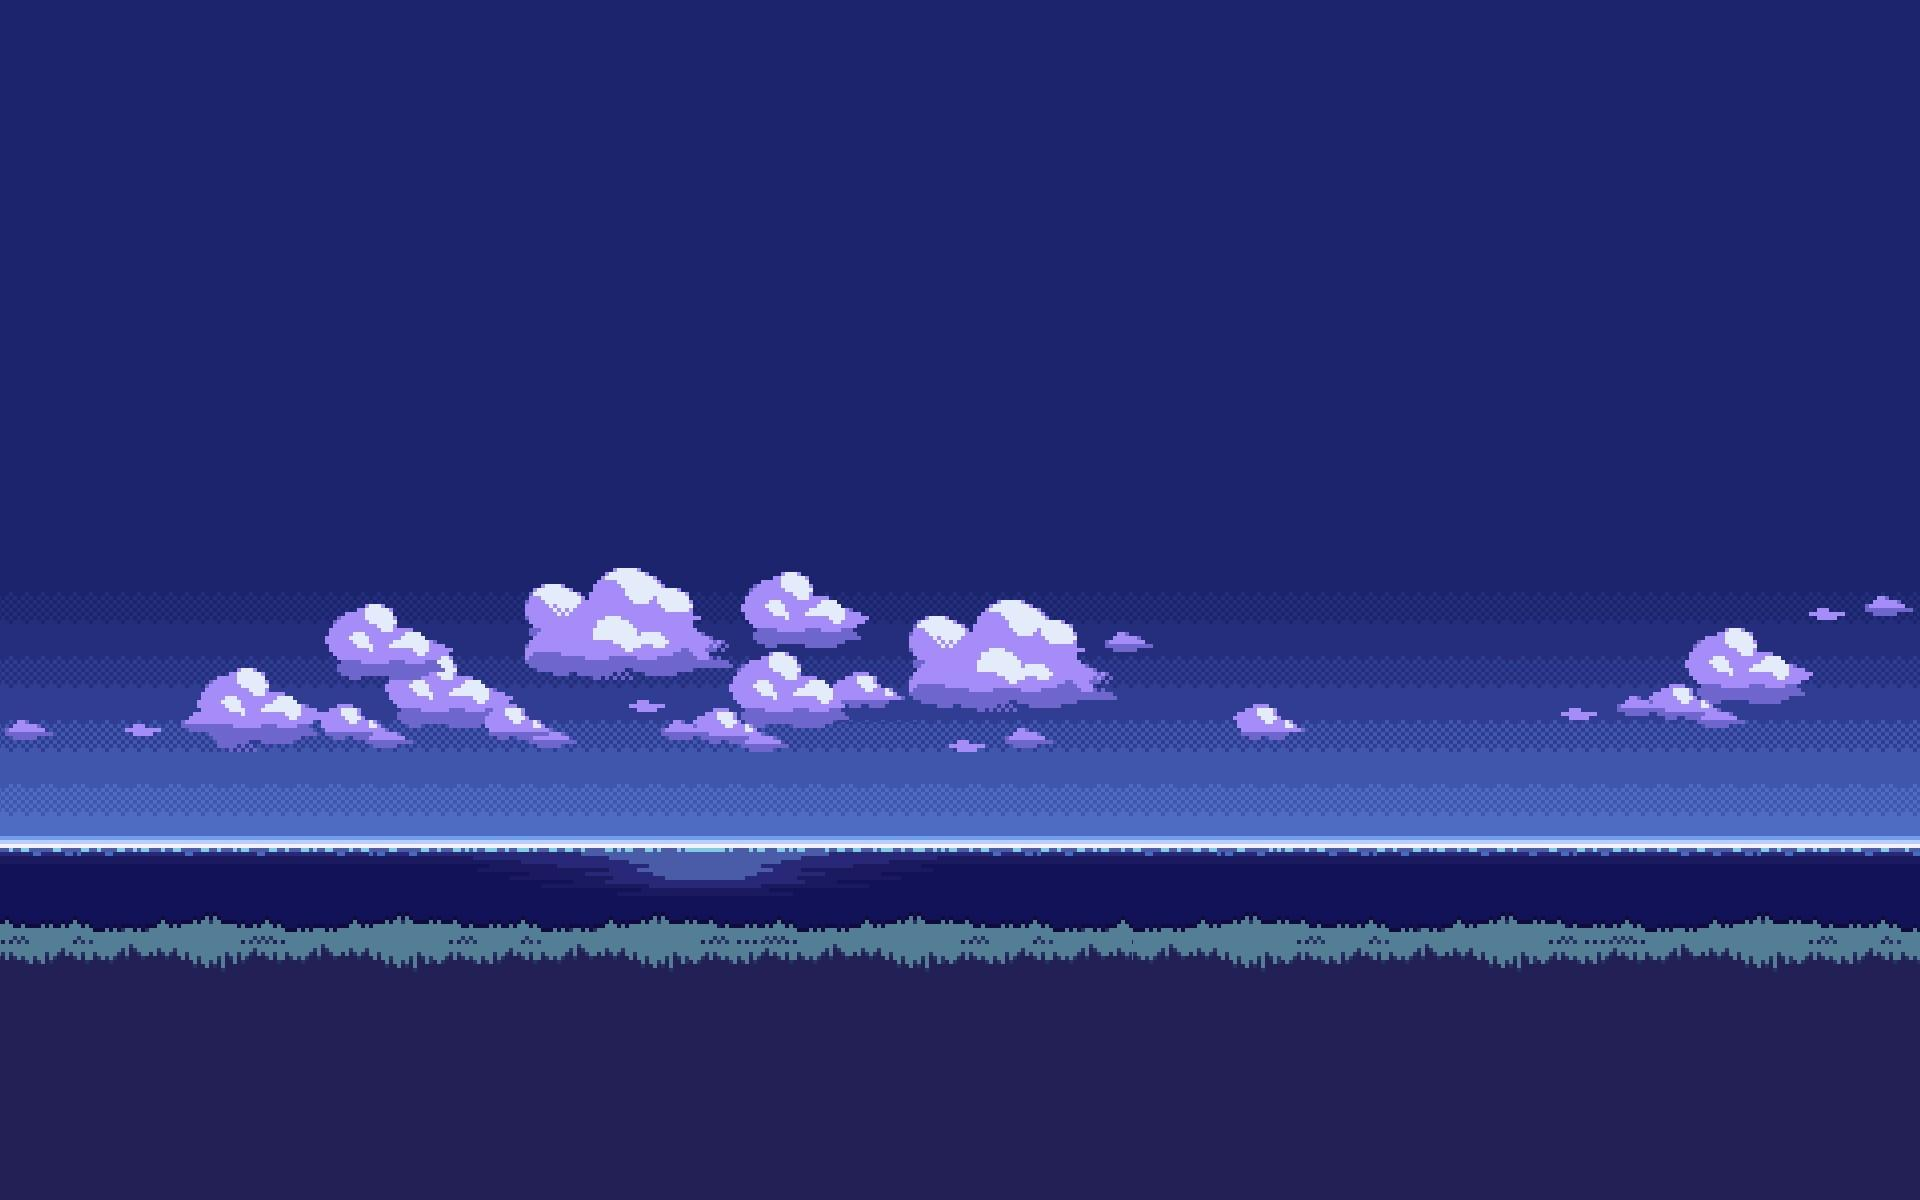
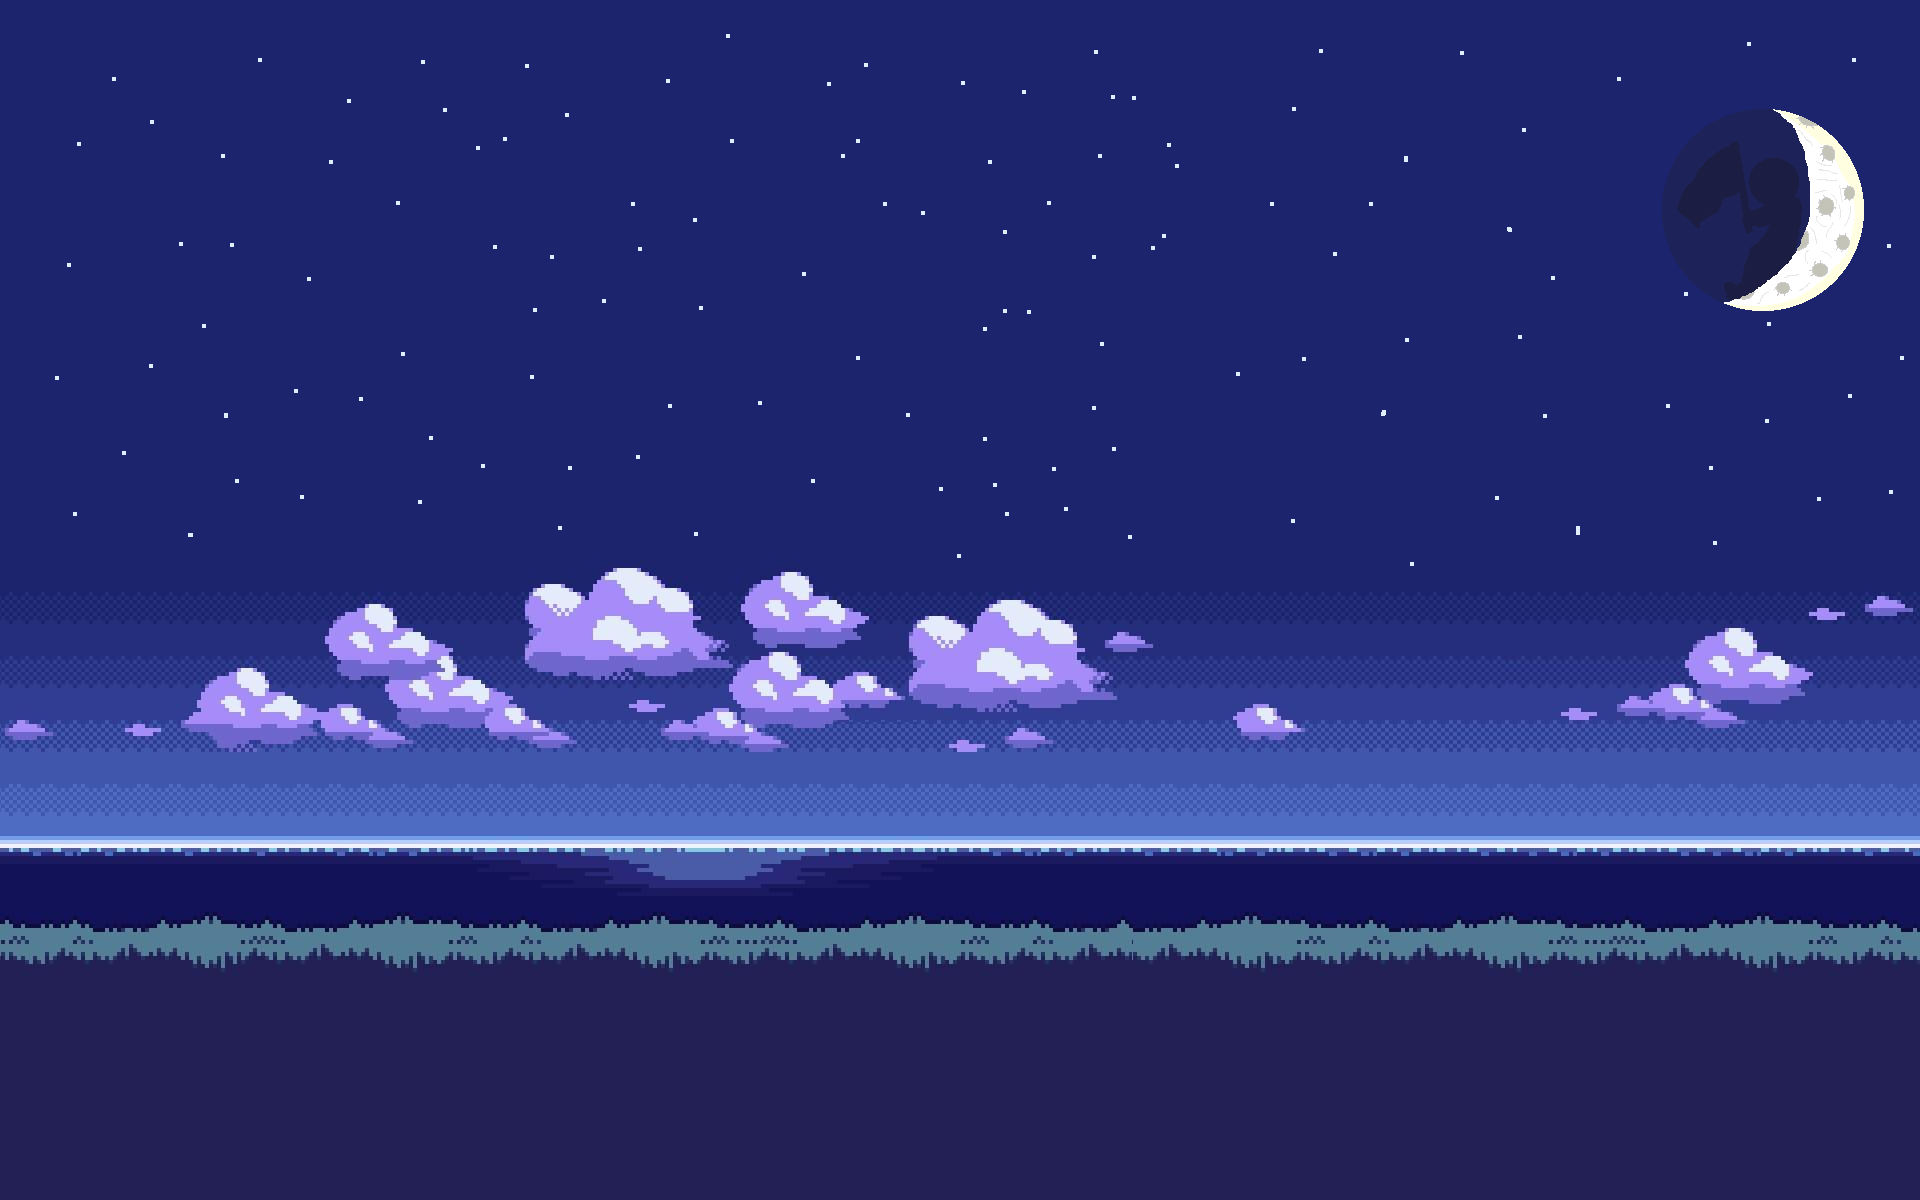
sound fount update!!!

Changed region(s): [[0.875, 0.0925, 0.9688, 0.2775]]

diff --git a/.vscode/teste.html b/.vscode/teste.html
@@ -1,0 +1,15 @@
+<!DOCTYPE html>
+<html lang="pt-br">
+<head>
+    <meta charset="UTF-8">
+    <meta name="viewport" content="width=device-width, initial-scale=1.0">
+     <link rel="stylesheet" href="teste.css">
+    <title>Testes</title>
+</head>
+<body>
+    <button id="btnSom">Som</button>
+
+<audio id="somClique" src="vitoria.mp3"></audio>
+        <script src="teste.js"></script>
+</body>
+</html>

diff --git a/paginas/perfil/config.html b/paginas/perfil/config.html
@@ -29,6 +29,10 @@
             </div>
             <nav>
                 <ul class="nav-list">
+                    
+                    <li id="nav-item">
+                        <a href="../../index.html">Início</a>
+                    </li>
                     <li id="nav-item">
                         <a href="../criar/criar.html">Criar</a>
                     </li>
@@ -40,9 +44,6 @@
                     </li>
                     <li id="nav-item2">
                         <a href="perfil.html"><i class="fas fa-user"></i></a>
-                    </li>
-                    <li id="nav-item2">
-                        <a href="config.html"><i class="fas fa-gear"></i></a>
                     </li>
                 </ul>
             </nav>

diff --git a/.vscode/teste.js b/.vscode/teste.js
@@ -1,0 +1,6 @@
+const btnSom = document.getElementById("btnSom");
+const somClique = document.getElementById("somClique");
+
+btnSom.addEventListener("click", function () {
+    somClique.play();
+});

diff --git a/JS/inventario.js b/JS/inventario.js
@@ -1,11 +1,15 @@
 const inPesquisaClasse = document.getElementById("inPesquisaClasse");
 const inPesquisaVida = document.getElementById("inPesquisaVida");
 const inTipoFiltroVida = document.getElementById("inTipoFiltroVida")
+
 const msgVazio = document.getElementById("msgVazio");
+
 const listaPersonagens = document.getElementById("listaPersonagens");
 const listaObjetos = document.getElementById("listaObjetos");
 const listaAreas = document.getElementById("listaAreas");
+
 const btnPesquisar = document.getElementById("btnPesquisar");
+const somSucesso = document.getElementById("somSucesso");
 
 function renderizarLista() {
     let vetPersonas = JSON.parse(localStorage.getItem("personagens")) || [];
@@ -53,6 +57,7 @@ listaPersonagens.addEventListener("click", function (event) {
         const idDeletar = Number(event.target.getAttribute("idPersona"));
 
         if (confirm("Tem certeza que deseja apagar este personagem?")) {
+    somSucesso.play();
             let vetPersonas = JSON.parse(localStorage.getItem("personagens")) || [];
             let novoVetPersonas = [];
 
@@ -77,6 +82,7 @@ btnPesquisar.addEventListener("click", function () {
     let vetPersonas = JSON.parse(localStorage.getItem("personagens")) || [];
     let novoVetPersonas = [];
 
+    somSucesso.play();
     for (var i = 0; i < vetPersonas.length; i++) {
         let personaAtual = vetPersonas[i];
         let condClasse = false;

diff --git a/paginas/perfil/inventario.html b/paginas/perfil/inventario.html
@@ -51,9 +51,9 @@
     </header>
     <main id="containerElementos" class="container py-4">
         <h1 class="h4 text-center mb-4">Inventário</h1>
-<input type="number" id="inPesquisaVida" class="form-control mb-3" placeholder="Digite o valor da vida">
+<input type="number" id="inPesquisaVida" placeholder="Digite o valor da vida">
 
-    <select id="inTipoFiltroVida" class="form-select mb-3">
+    <select id="inTipoFiltroVida">
        <option value="maior" selected>Vida Maior ou igual que:</option>
         <option value="menor">Vida menor ou igual que:</option>
     </select>
@@ -86,7 +86,7 @@
             <option value="alquimista">Alquimista</option>
         </select>
         <button id="btnPesquisar" class="btn btn-primary">Pesquisar</button>
-
+        <audio id="somSucesso" src="../../JS/vitoria.mp3"></audio>
         <div id="msgVazio" class="text-center mt-5">
             <p class="fs-4">Vazio, igual seu coração :P</p>
             <p class="text-muted">Crie seu primeiro elemento para vê-lo aparecer aqui.</p>

diff --git a/index.html b/index.html
@@ -24,8 +24,10 @@
     <header>
         <div class="navbar">
             <div id="logos">
+                <a href="index.html">
                 <img src="recursos/imgs/favicon.png" alt="icone rpagina" href="index.html">
                 <h1 id="logo"><strong>RP</strong>á<strong>G</strong>ina!</h1>
+            </a>
             </div>
             <nav>
                 <ul class="nav-list">

diff --git a/CSS/navbar.css b/CSS/navbar.css
@@ -46,6 +46,7 @@ header {
 }
 
 #logos {
+    text-decoration: none;
     display: flex;
     flex-direction: row;
 }

diff --git a/JS/criarPersonagem.js b/JS/criarPersonagem.js
@@ -13,7 +13,6 @@ const inDefP = document.getElementById("inDefP");
 const inSorteP = document.getElementById("inSorteP");
 const inVeloP = document.getElementById("inVeloP");
 
-
 let vetPersonas = JSON.parse(localStorage.getItem("personagens")) ||[];
 
 personaForm.addEventListener("submit", function (event) {